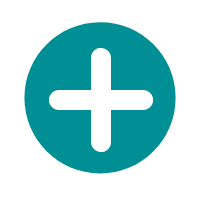
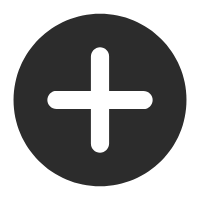
更改配色方案为amber

diff --git a/pages/calendar/calendar.js b/pages/calendar/calendar.js
@@ -46,7 +46,7 @@ Page({
      let day = e.detail.day, year=e.detail.year,month=e.detail.month
      let date = year+'-' + month + '-' + day
      this.setData({
-       days_style: [{month: 'current', day: day, color: '#fff', background: '#eb6e80'}],
+       days_style: [{month: 'current', day: day, color: '#000', background: '#ffecb3'}],
        date:  date,
        memoLists: wx.getStorageSync('memo')[date]?wx.getStorageSync('memo')[date].lists: []
      })
@@ -103,7 +103,7 @@ Page({
       let memo = wx.getStorageSync('memo')[today.date]
       let days_count = new Date(this.data.year, this.data.month, 0).getDate();
       let days_style = 
-          [{ month: 'current', day: today.day, color: '#fff', background: '#eb6e80'}]
+          [{ month: 'current', day: today.day, color: '#000', background: '#ffecb3'}]
       this.setData({
          days_style: days_style,
          date:today.date,
